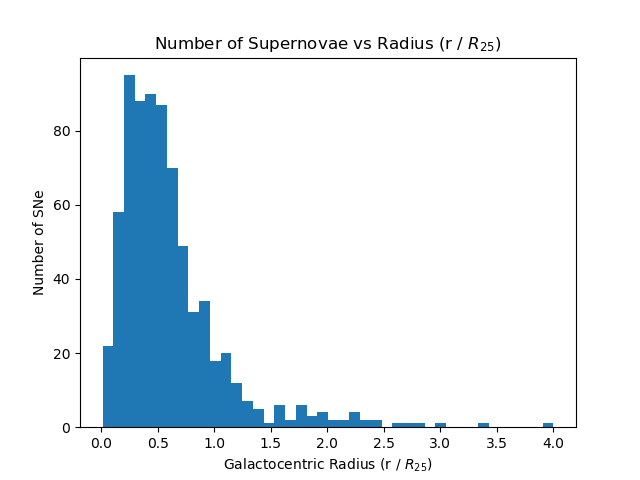
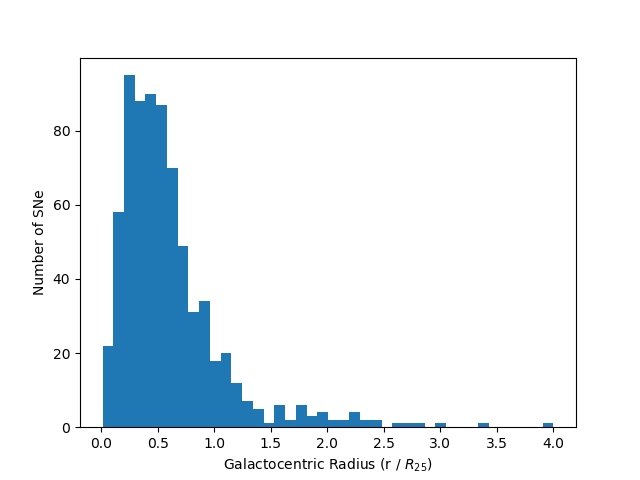
Removed Titles from the Figures for the Paper

Changed region(s): [[0.25, 0.0625, 0.7812, 0.125]]

diff --git a/sne_outskirts.py b/sne_outskirts.py
@@ -361,7 +361,8 @@ def hist_total_sne_by_stellar_mass(n_bins = 10):
 
     plt.legend(["Total SNe", 'Outskirts SNe'])
 
-    plt.title('Supernova Frequency vs Galaxy Stellar Mass')
+    #don't show the title for figures used in the paper, use captions instead
+    #plt.title('Supernova Frequency vs Galaxy Stellar Mass')
     plt.xlabel('Stellar Mass ($10^{10} M_{\odot}$)')
     plt.ylabel('Number of SNe')
     plt.xscale('log')
@@ -536,7 +537,8 @@ def total_sn_rate_outskirts(n_bins, save_graph = False, verbose = True, show_gra
 
     plt.fill_between(mean_masses, lower_line, upper_line, facecolor = 'gainsboro', zorder = 1)
 
-    plt.title(title + ' (bins = ' + str(n_bins) + ')')
+    #don't show this title, use caption instead in the paper
+    #plt.title(title + ' (bins = ' + str(n_bins) + ')')
     leg = plt.legend(['Linear Fit to Fixed Bins\n(' + fit_func_str + ')', 'Sliding Bin',\
                 'Sliding bin error (68% Poisson)',\
                 'Fixed Bin'])
@@ -788,7 +790,8 @@ def sne_radial_histogram():
     print("Total number of supernovae:", len(distance_ratios))
 
     plt.hist(distance_ratios, bins = freedman_diaconis_nbins(distance_ratios))
-    plt.title('Number of Supernovae vs Radius (r / $R_{25}$)')
+    # don't use title in the figures for the paper, caption instead
+    #plt.title('Number of Supernovae vs Radius (r / $R_{25}$)')
     plt.xlabel('Galactocentric Radius (r / $R_{25}$)')
     plt.ylabel('Number of SNe')
     plt.show()
